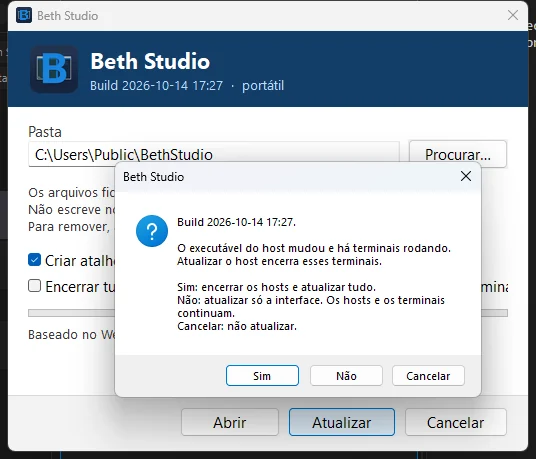
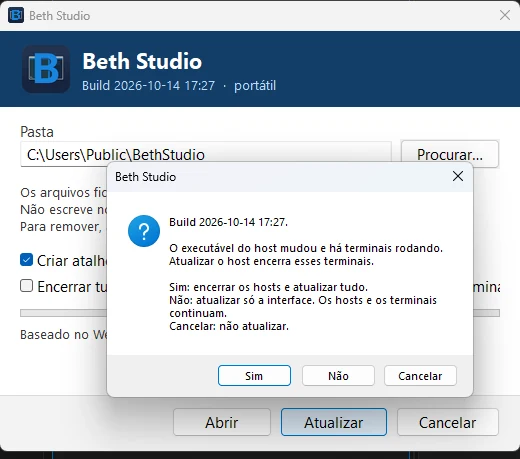
Site: print da pergunta do instalador (atualizar só a interface ou também o host).

diff --git a/site/en/index.html b/site/en/index.html
@@ -112,7 +112,7 @@
       <p class="sub">Shells, AI agents and WSL sessions live in the host, a process separate from the interface. Closing, hanging or restarting the interface does not touch them.</p>
       <ul class="long-list">
         <li><b>01</b><div><h3>Restart only the interface</h3><p>If the window hangs, close it and open the Studio again. The terminals come back with their history on screen, and the host never notices.</p></div></li>
-        <li><b>02</b><div><h3>Update the interface without killing the host</h3><p>Under Settings &gt; About, <em>Recarregar interface</em> (reload interface) applies a new interface without restarting the Studio or the host. From version 0.2.1, <em>Verificar atualização</em> (check for updates) looks up the GitHub release and asks whether you want only the interface or the host too. The host is only touched if you confirm.</p></div></li>
+        <li><b>02</b><div><h3>Update the interface without killing the host</h3><p>Under Settings &gt; About, <em>Recarregar interface</em> (reload interface) applies a new interface without restarting the Studio or the host. If you update with the installer while terminals are open, it asks whether you want only the interface or the host too, and answering “No” keeps the host and the terminals. From version 0.2.1, <em>Verificar atualização</em> (check for updates) looks up the GitHub release and asks whether you want only the interface or the host too. The host is only touched if you confirm.</p></div></li>
         <li><b>03</b><div><h3>If the host itself goes down, it comes back</h3><p>The Studio starts another host and recreates the terminals in the same tabs and folders.</p></div></li>
       </ul>
       <div style="margin-top:clamp(1.25rem,3vw,2.5rem);max-width:56rem">
@@ -123,6 +123,16 @@
             <div class="ph"><strong>Screenshot</strong><code>assets/shots/persistencia.webp</code></div>
           </div>
           <figcaption>Proof: the same terminal and the same host (Id 9700, started at 16:00:05), before and after restarting the interface.</figcaption>
+        </figure>
+      </div>
+      <div style="margin-top:clamp(1.25rem,3vw,2.5rem);max-width:34rem">
+        <figure class="shot win">
+          <div class="chrome" aria-hidden="true"><i></i><i></i><i></i><span>Beth Studio installer</span></div>
+          <div class="frame" style="aspect-ratio:520 / 459">
+            <img src="assets/shots/instalador-pergunta-host.webp" width="520" height="459" loading="lazy" alt="Installer prompt when updating: Yes closes the hosts and updates everything; No updates only the interface and the hosts and terminals keep running; Cancel does not update." onload="this.parentNode.parentNode.classList.add('ok')" onerror="this.remove()">
+            <div class="ph"><strong>Screenshot</strong><code>assets/shots/instalador-pergunta-host.webp</code></div>
+          </div>
+          <figcaption>When you update over an existing install, the installer asks what to do: “No” updates only the interface and keeps the host and the terminals; “Yes” closes everything. (The installer is in Portuguese.)</figcaption>
         </figure>
       </div>
     </div>

diff --git a/site/index.html b/site/index.html
@@ -112,7 +112,7 @@
       <p class="sub">Os shells, os agentes de IA e as sessões WSL ficam no host, que é um processo separado da interface. Fechar, travar ou reiniciar a interface não encosta neles.</p>
       <ul class="long-list">
         <li><b>01</b><div><h3>Reinicie só a interface</h3><p>Se a janela travar, feche e abra o Studio de novo. Os terminais voltam com o histórico na tela, e o host nem percebe.</p></div></li>
-        <li><b>02</b><div><h3>Atualize a interface sem matar o host</h3><p>Em Configurações &gt; Sobre, <em>Recarregar interface</em> aplica uma interface nova sem reiniciar o Studio nem o host. A partir da versão 0.2.1, <em>Verificar atualização</em> busca o release no GitHub e pergunta se você quer só a interface ou também o host. O host só é tocado se você confirmar.</p></div></li>
+        <li><b>02</b><div><h3>Atualize a interface sem matar o host</h3><p>Em Configurações &gt; Sobre, <em>Recarregar interface</em> aplica uma interface nova sem reiniciar o Studio nem o host. Se você atualizar pelo instalador com terminais abertos, ele pergunta se quer só a interface ou também o host, e responder “Não” mantém o host e os terminais. A partir da versão 0.2.1, <em>Verificar atualização</em> busca o release no GitHub e pergunta se você quer só a interface ou também o host. O host só é tocado se você confirmar.</p></div></li>
         <li><b>03</b><div><h3>Se o próprio host cair, ele sobe de novo</h3><p>O Studio sobe outro host e recria os terminais nas mesmas abas e pastas.</p></div></li>
       </ul>
       <div style="margin-top:clamp(1.25rem,3vw,2.5rem);max-width:56rem">
@@ -123,6 +123,16 @@
             <div class="ph"><strong>Captura de tela</strong><code>assets/shots/persistencia.webp</code></div>
           </div>
           <figcaption>Prova: o mesmo terminal e o mesmo host (Id 9700, iniciado às 16:00:05), antes e depois de reiniciar a interface.</figcaption>
+        </figure>
+      </div>
+      <div style="margin-top:clamp(1.25rem,3vw,2.5rem);max-width:34rem">
+        <figure class="shot win">
+          <div class="chrome" aria-hidden="true"><i></i><i></i><i></i><span>Instalador do Beth Studio</span></div>
+          <div class="frame" style="aspect-ratio:520 / 459">
+            <img src="assets/shots/instalador-pergunta-host.webp" width="520" height="459" loading="lazy" alt="Pergunta do instalador ao atualizar: Sim encerra os hosts e atualiza tudo; Não atualiza só a interface e os hosts e terminais continuam; Cancelar não atualiza." onload="this.parentNode.parentNode.classList.add('ok')" onerror="this.remove()">
+            <div class="ph"><strong>Captura de tela</strong><code>assets/shots/instalador-pergunta-host.webp</code></div>
+          </div>
+          <figcaption>Ao atualizar por cima, o instalador pergunta o que fazer: “Não” atualiza só a interface e mantém o host e os terminais; “Sim” encerra tudo.</figcaption>
         </figure>
       </div>
     </div>

diff --git a/site/README.md b/site/README.md
@@ -36,6 +36,7 @@ A página reserva espaços de proporção fixa para capturas reais. Enquanto o a
 | `banco-confirmacao.webp` | 4:3 (1044x788) | Confirmação antes de alterar o banco, listando cada instrução |
 | `banco-nova-conexao.webp` | 4:3 (1044x788) | Formulário de nova conexão (PostgreSQL, MySQL/MariaDB, SQL Server, SQLite) |
 | `ssh-novo-host.webp` | 4:3 (1044x788) | Formulário de novo host SSH (sem host real) |
+| `instalador-pergunta-host.webp` | 520x459 | Pergunta do instalador ao atualizar por cima: "Não" atualiza só a interface e mantém o host |
 | `voz-celular.webp` | 9:19 (ex.: 900x1900) | (ainda sem captura) WebApp do celular com o texto ditado no campo de mensagem |
 
 Tema claro/escuro: segue o sistema e tem botão no cabeçalho; a escolha fica em `localStorage` (a página funciona sem ele).
